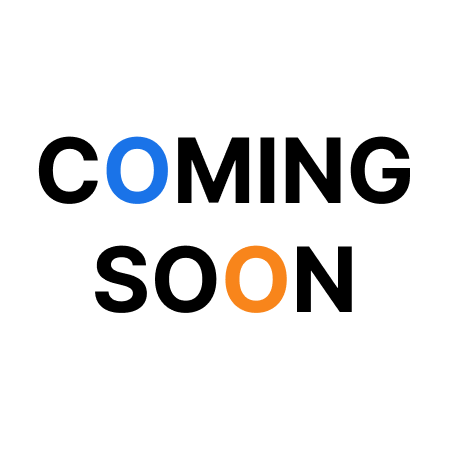
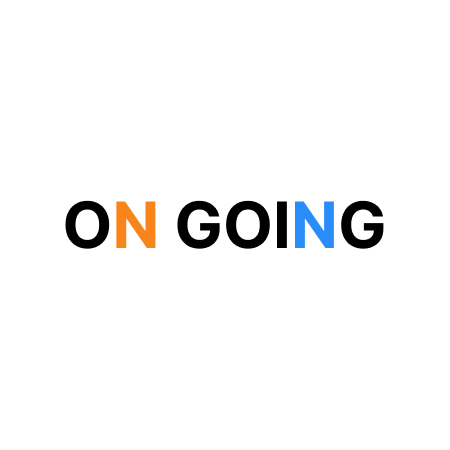
update content

Changed region(s): [[0.0622, 0.28, 0.9333, 0.7156]]

diff --git a/src/assets/data/project.js b/src/assets/data/project.js
@@ -1,10 +1,25 @@
 const products = [
   {
-    name: "AI Marketing Operating System",
+    name: "AI Marketing Operating System(AIMOS)",
     description: "AI-powered marketing operating system built specifically for large enterprises.",
-    href: "/project/soon",
+    href: "/project/aimos",
     imageSrc: "https://raw.githubusercontent.com/lovanto/lovanto.github.io/master/src/assets/project/soon.png",
     imageAlt: "AIMOS",
+  },
+  {
+    name: "Moeda Pos Apps",
+    description:
+      "Point of Sale (POS) application designed to streamline transactions, inventory management, and business operations for retail and food service businesses.",
+    href: "/project/moeda",
+    imageSrc: "https://raw.githubusercontent.com/lovanto/lovanto.github.io/master/src/assets/project/soon.png",
+    imageAlt: "Moeda",
+  },
+  {
+    name: "Empatrima",
+    description: "Realtime quiz apps for educational and corporate training purposes.",
+    href: "/project/empatrima",
+    imageSrc: "https://raw.githubusercontent.com/lovanto/lovanto.github.io/master/src/assets/project/soon.png",
+    imageAlt: "Empatrima",
   },
   {
     name: "WCC - Enterprise System",